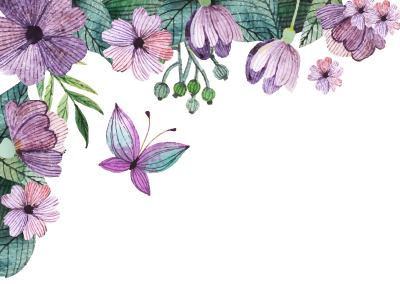
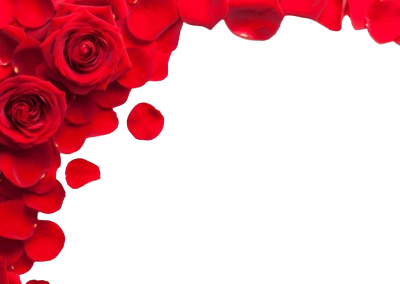
roses top corners added

diff --git a/index.html b/index.html
@@ -34,8 +34,8 @@
    <body>
       <!-- partial:index.partial.html -->
       <div class="sakura-falling"></div>
-      <img src="https://i.imgur.com/dGOOfnA.png" alt="image-top-right" class="top-right-decoration">
-      <img src="https://i.imgur.com/t6ffnbn.png" alt="image-top-left" class="top-left-decoration"> 
+      <img src="./assets/img/right.png" alt="image-top-right" class="top-right-decoration">
+      <img src="./assets/img/left.png" alt="image-top-left" class="top-left-decoration"> 
       <section id="media"></section>
       <div class="wrap">
          <img id="ghibli-illustration" src="./assets/img/vr-ghibli.png" alt="couple illustration">
